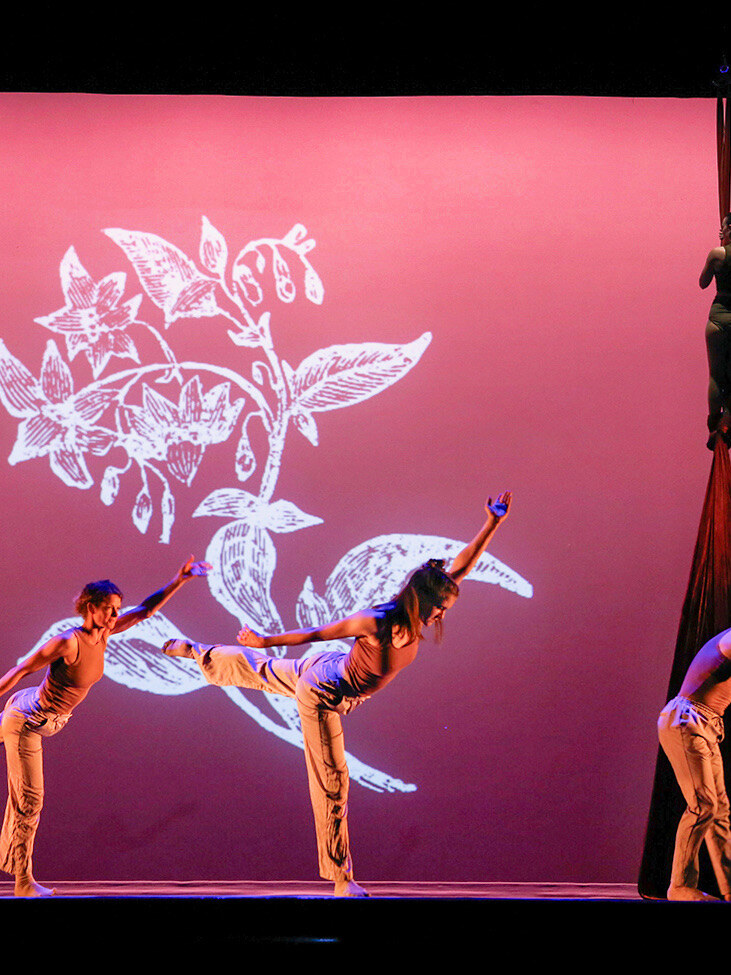
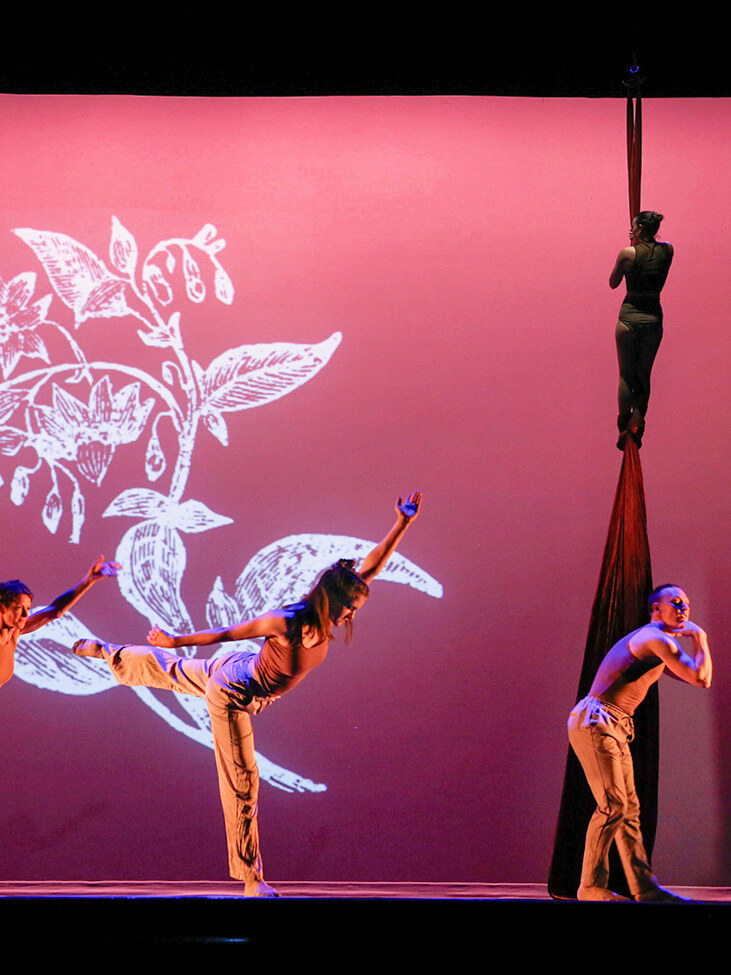
Dance crop: more right + bottom

diff --git a/src/pages/Home.tsx b/src/pages/Home.tsx
@@ -44,7 +44,7 @@ export default function Home() {
             <h3 className="text-xl mt-4 mb-1 px-6">Acrobatics &amp; Flexibility</h3><p className="px-6 m-0 text-sm text-ea-espresso/80">Handstands, Intro to Contortion, Strength &amp; Flexibility training.</p>
           </div>
           <div className="rounded-[10px] overflow-hidden bg-white shadow-sm text-center pb-5">
-            <img src="/photos/dance.jpg" alt="Dance class" loading="lazy" className="w-full h-[340px] object-cover" />
+            <img src="/photos/dance.jpg" alt="Dance class" loading="lazy" className="w-full h-[340px] object-cover object-bottom" />
             <h3 className="text-xl mt-4 mb-1 px-6">Dance</h3><p className="px-6 m-0 text-sm text-ea-espresso/80">Ballet, Jazz, Belly Dancing, Contemporary, Heels, House &amp; more.</p>
           </div>
           <div className="rounded-[10px] overflow-hidden bg-white shadow-sm text-center pb-5">
